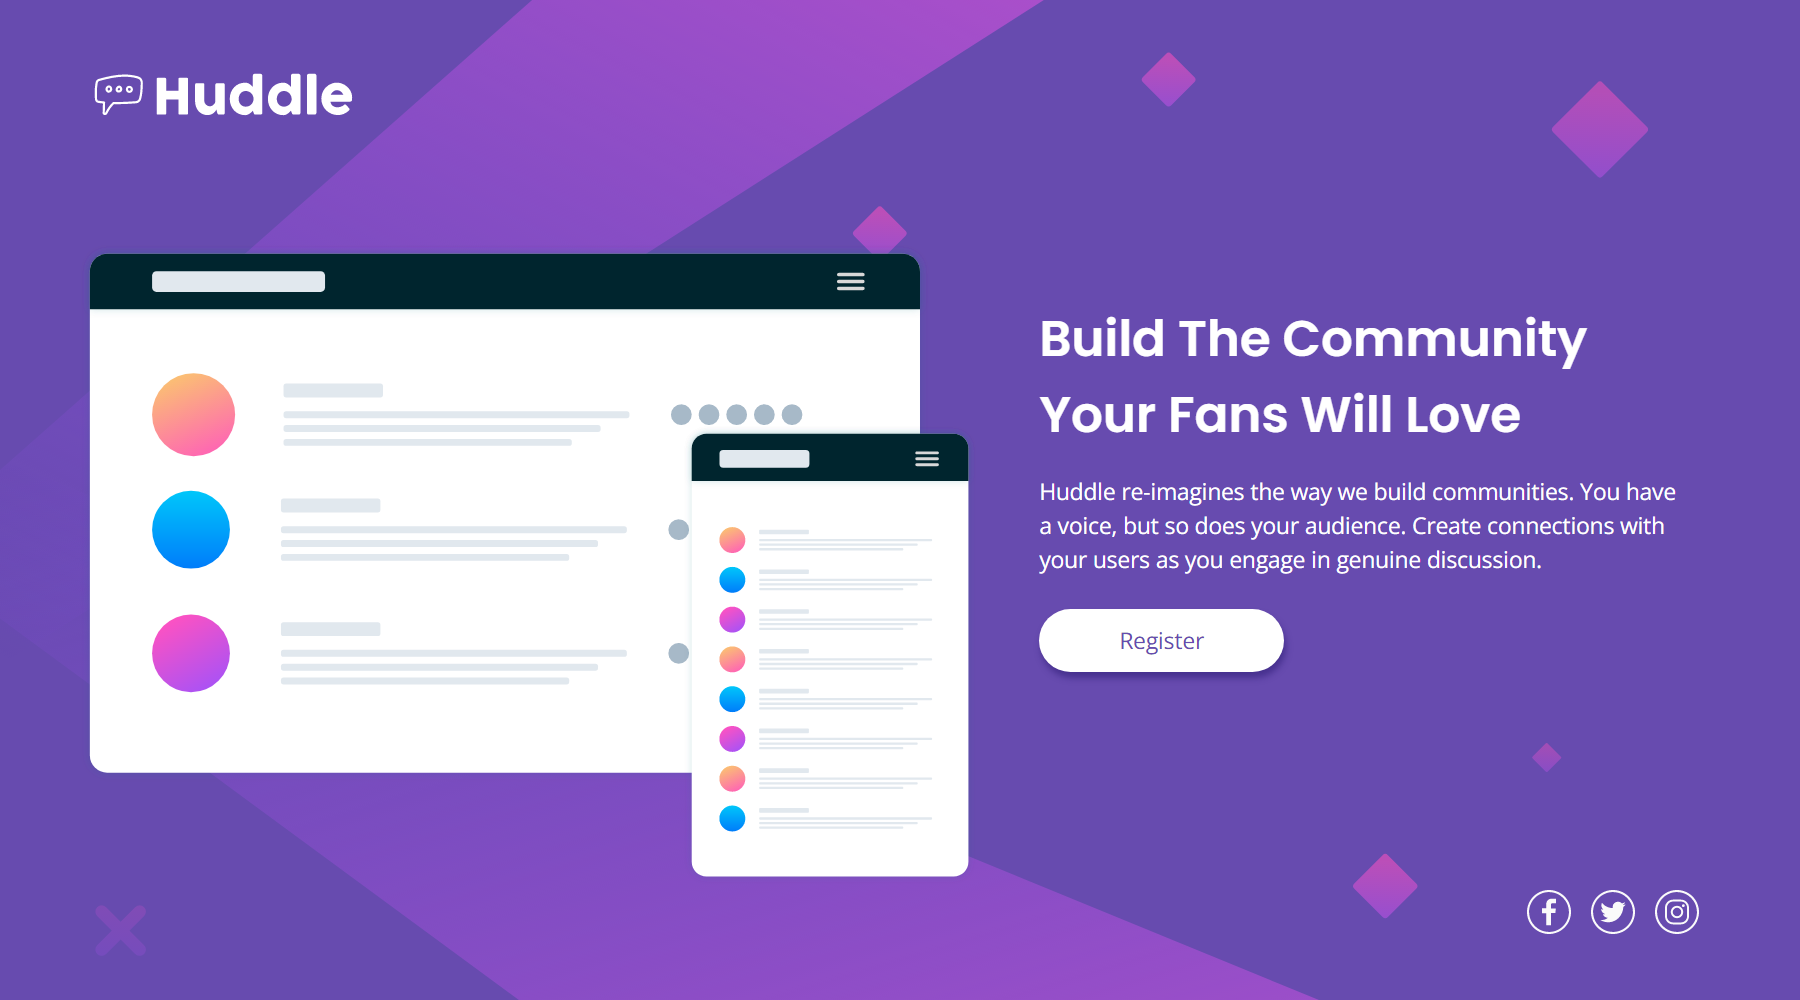
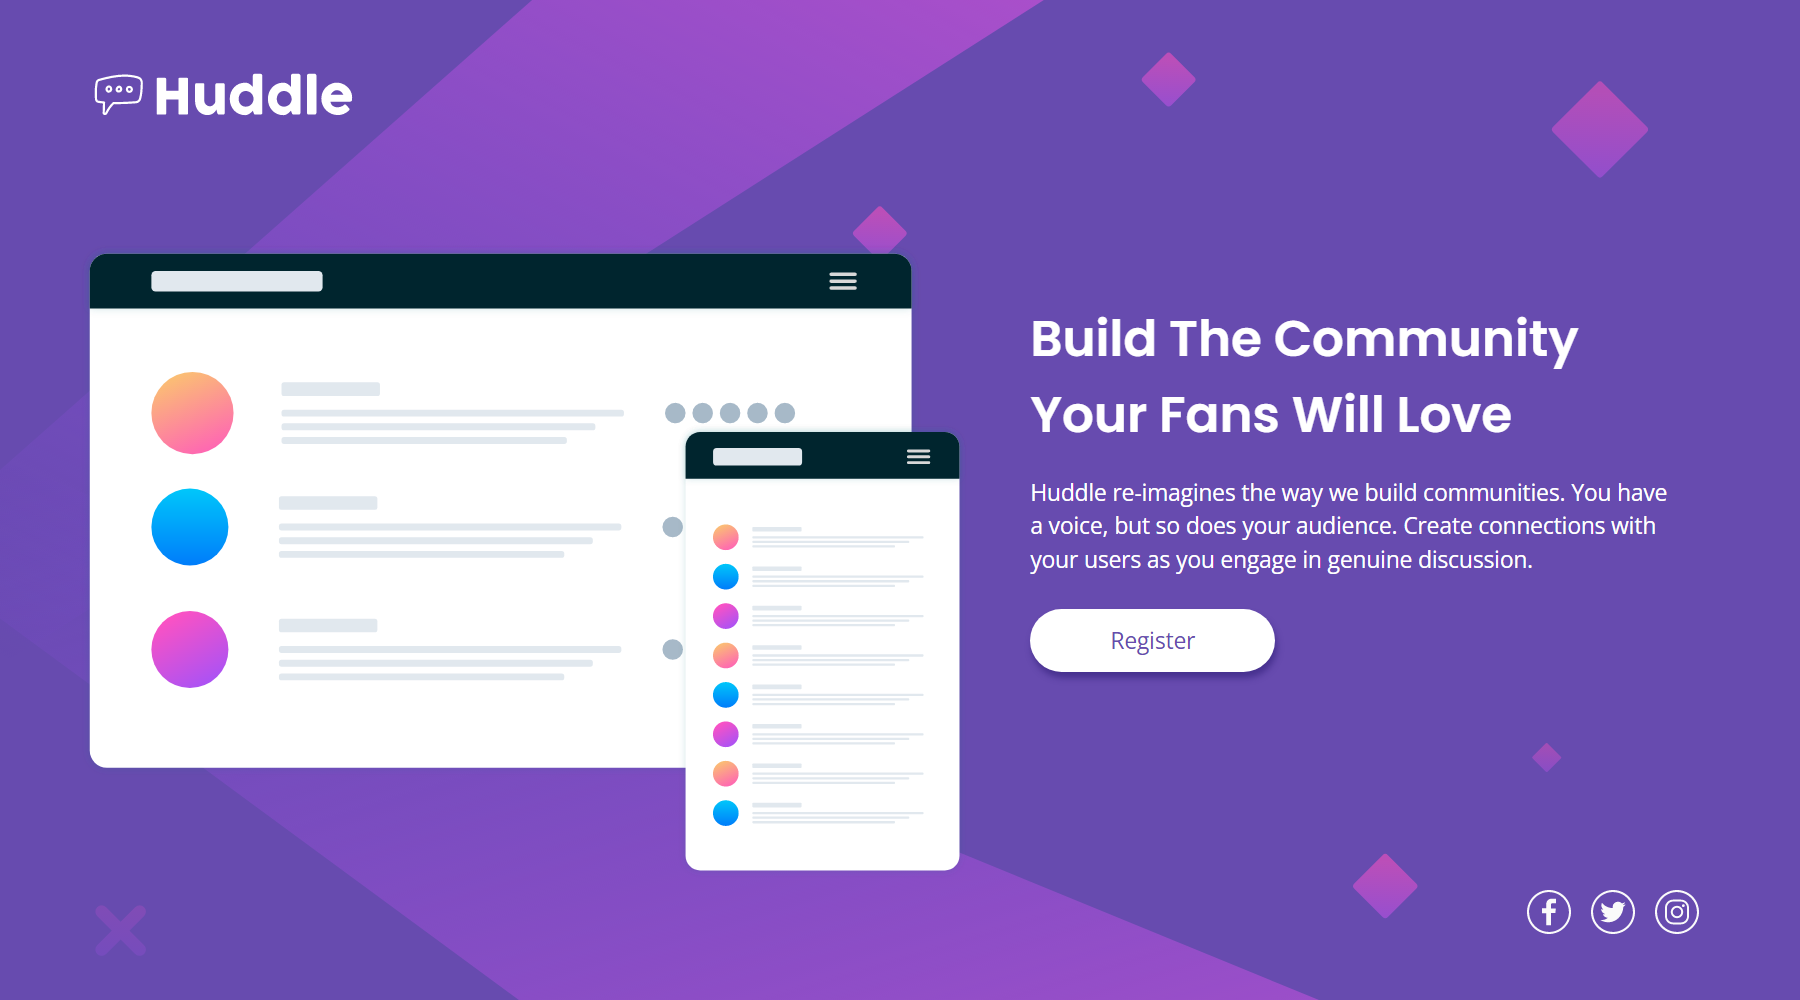
fixing positioning

diff --git a/css/style.css b/css/style.css
@@ -128,7 +128,7 @@ footer{
     background: hsl(257, 40%, 49%) no-repeat url("../images/bg-desktop.svg");
     background-size:auto 100vh;
     padding:6vh 4.5vw;
-    grid-template-rows:21% auto auto ;
+    grid-template-rows: 18.5vh auto auto ;
   }
   p{
     font-size: 1.125rem;
@@ -138,11 +138,14 @@ footer{
   }
   .hero{
     display: flex;
+    height: 50vh;
   }
   .hero-image{
     margin: 0;
     width: 50vw;
-  }
+    height: fit-content;
+
+      }
   .hero-text{
     text-align: left;
     padding: 2vw 2vw 0 3.5vw ;
